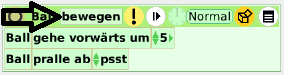
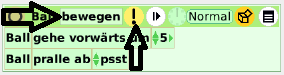
bewegen ausführen und richtung hinzugefügt

Changed region(s): [[0.4225, 0.32, 0.5352, 0.96]]

diff --git a/index.html b/index.html
@@ -49,9 +49,9 @@ So ähnlich wird es aussehen:
 
 ![Bild von Pong](http://stream1.gifsoup.com/view2/1999296/pong-o.gif)
 
-Um dem Ganzen Herr zu werden hier Teilprobleme, die zusammen das große Problem lösen, wie man Pong baut:
+Teilprobleme, die zusammen das große Problem lösen, wie man Pong baut:
 
- - [ein Ball, der sich bewegt](#derball)
+ - [ein Ball, der sich bewegt](#ballerstellen)
  - zwei Schieber, die man steuern kann
  - dass der Ball an den Schiebern abprallt
 
@@ -97,7 +97,23 @@ Gleich noch weitere Bestandteile hinzufügen:
 
 ![](images/tutorial/09-ScriptBewegen.png)
 
-![](images/tutorial/10-BewegenAbprallen.png)
+Und mir zuliebe nenne ich das, was der Ball tun soll, **bewegen** und füge das Abprallen am Rand hinzu.
+
+![Script benennen](images/tutorial/10-BewegenAbprallen.png)
+
+Jetzt kann man auf die Uhr klicken und es läuft automatisch oder man kann es anhalten. Wenn man auf **Normal** klickt, kann man auch einstellen, dass das Script immer wenn die Maus drüber ist, ausgeführt wird oder einmal, wenn das Projekt geöffnet oder geschlossen wird.
+
+![Auf die Uhr klicken](images/tutorial/11-BewegenAusfuehren.png)
+
+Wenn sich der Ball erstmal bewegt, ist 0 keine sehr spannende Richtung.
+
+![Die Richtung geht rechts um von 0 bis 359](images/tutorial/Richtung.png)
+
+Der Ball ist fertig.
+
+Das Projekt speichern
+=====================
+
 
 
 </body></html>

diff --git a/server.py b/server.py
@@ -2,7 +2,10 @@ try:
     import SimpleHTTPServer as http_server
 except ImportError:
     import http.server as http_server
-    
+import socket
+
 print('Url: http://localhost:8000/')
+print('andere IPs: ')
+print(socket.gethostbyname_ex(socket.gethostname()))
 
 http_server.test(http_server.SimpleHTTPRequestHandler)
